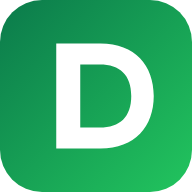
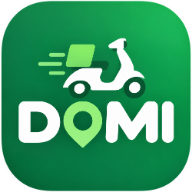
v1.10.3: Ícono nuevo de la app
Se reemplazó el ícono de la PWA por el diseño definitivo (moto + "DOMI")
compartido por el usuario, generado a partir de icons/logo-fuente.png:

- icon-192.png / icon-512.png: logo recortado, con las esquinas redondeadas
  del diseño (transparente fuera de ellas, sin el margen blanco del original).
- icon-maskable-512.png: logo escalado a la zona segura sobre fondo a sangre
  con el degradé verde de la marca, para que Android/iOS no lo recorten.
- Se quitó icon.svg (era un PNG de 445KB envuelto en SVG, sin ventaja sobre
  el PNG de 52KB); el favicon usa los PNG directamente.
- logo-fuente.png queda en el repo como el diseño original, sin usar en
  runtime (no se precachea).
- sw.js: caché a v26.

Generado y verificado con Chrome headless (recorte, máscara redondeada y
zona segura maskable comprobados visualmente).

diff --git a/index.html b/index.html
@@ -13,8 +13,8 @@
 <meta name="apple-mobile-web-app-title" content="Domi">
 <link rel="manifest" href="manifest.json">
 <link rel="apple-touch-icon" href="icons/icon-192.png">
-<link rel="icon" type="image/svg+xml" href="icons/icon.svg">
-<link rel="icon" type="image/png" href="icons/icon-192.png">
+<link rel="icon" type="image/png" href="icons/icon-512.png" sizes="512x512">
+<link rel="icon" type="image/png" href="icons/icon-192.png" sizes="192x192">
 
 <!-- Tipografías: Outfit para cifras/display, Inter para texto -->
 <link rel="preconnect" href="https://fonts.googleapis.com">
@@ -304,7 +304,7 @@
         <button class="link-btn link-btn--danger link-btn--block" id="btnCerrarSesion" style="margin-top:14px">Cerrar sesión</button>
       </div>
 
-      <p class="app-version">Domi v1.10.2</p>
+      <p class="app-version">Domi v1.10.3</p>
 
     </section>
 

diff --git a/sw.js b/sw.js
@@ -9,7 +9,7 @@
      caché primero, porque sus URLs llevan versión y no cambian.
    - Todo lo demás de otros orígenes (API de Firestore/Auth): no se toca. */
 
-const CACHE_NAME = 'domi-cache-v25';
+const CACHE_NAME = 'domi-cache-v26';
 
 const ARCHIVOS_CORE = [
   './',
@@ -34,7 +34,6 @@ const ARCHIVOS_CORE = [
   './js/pull-refresh.js',
   './firebase-config.js',
   './manifest.json',
-  './icons/icon.svg',
   './icons/icon-192.png',
   './icons/icon-512.png',
   './icons/icon-maskable-512.png'

diff --git a/CHANGELOG.md b/CHANGELOG.md
@@ -5,6 +5,29 @@ Formato: lo más reciente arriba. Cada versión es funcional por sí sola.
 
 ---
 
+## [1.10.3] — Ícono nuevo de la app
+
+### Cambiado
+- Se reemplazó el ícono de la PWA (moto + "DOMI") por el diseño definitivo que
+  compartió el usuario, generado a partir de `icons/logo-fuente.png`:
+  - `icon-192.png` / `icon-512.png`: el logo recortado, con las mismas
+    esquinas redondeadas del diseño (fondo transparente fuera de ellas).
+  - `icon-maskable-512.png`: el logo escalado a la zona segura sobre un fondo
+    a sangre con el degradé verde de la marca, para que Android/iOS no lo
+    recorten al aplicar su propia máscara (circular, squircle, etc.).
+- Se quitó `icon.svg`: era en realidad un PNG de 445 KB envuelto en SVG (sin
+  ninguna ventaja sobre el PNG de 52 KB); el favicon ahora usa los PNG
+  directamente.
+- `icons/logo-fuente.png` queda en el repo como el diseño original, sin usar
+  en tiempo de ejecución (no se precachea).
+- Service worker: caché `v26`.
+
+### Sin cambios
+- El emoji 🛵 dentro de la app (barra superior, pantalla de login) no es parte
+  del ícono de la PWA y no se tocó.
+
+---
+
 ## [1.10.0] — UX/UI: jerarquía visual (paso 1 de 3)
 
 Primera etapa de una revisión de UX/UI y organización (sin rediseño: se

diff --git a/README.md b/README.md
@@ -32,7 +32,7 @@ Raiz:
 | `manifest.json` | Metadatos de la PWA. |
 | `firestore.rules` | Reglas de seguridad para publicar en Firebase. |
 | `firestore.indexes.json` | Indices compuestos que necesitan las consultas. |
-| `icons/` | Iconos de la app (192, 512, maskable, SVG). |
+| `icons/` | Iconos de la app (192, 512, maskable) + `logo-fuente.png` (el diseño original, sin usar en runtime). |
 | `CHANGELOG.md` | Historial de versiones. |
 
 Modulos (`js/`):
